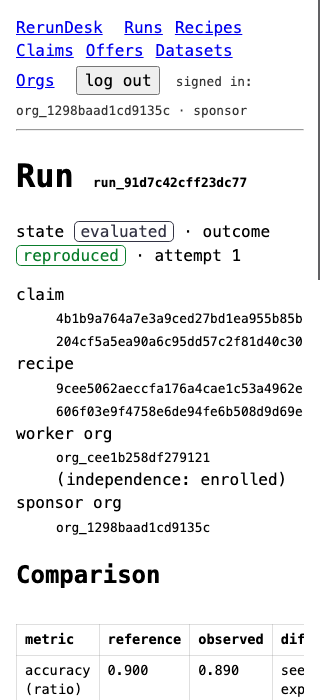
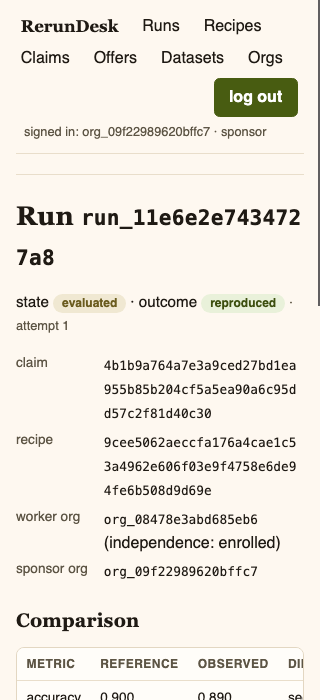
Console visual/UX pass: warm paper palette, editorial headings, badge state contrast, dark palette, 320px table wrap, styled error page

diff --git a/src/console.js b/src/console.js
@@ -31,27 +31,100 @@ function page(title, actor, inner) {
 <meta name="viewport" content="width=device-width, initial-scale=1">
 <title>${esc(title)} · RerunDesk</title>
 <style>
-:root { color-scheme: light dark; }
-body { font-family: ui-monospace, SFMono-Regular, Menlo, monospace; margin: 0 auto;
-  max-width: 64rem; padding: 1rem; line-height: 1.45; }
-nav a { margin-right: .75rem; }
-table { border-collapse: collapse; width: 100%; margin: .75rem 0; }
-.tablewrap { overflow-x: auto; }
-:focus-visible { outline: 2px solid #36c; outline-offset: 2px; }
-th, td { border: 1px solid #8884; padding: .3rem .5rem; text-align: left;
-  font-size: .85rem; vertical-align: top; }
-code { font-size: .8rem; word-break: break-all; }
-.badge { border: 1px solid currentColor; border-radius: .3rem; padding: 0 .35rem; }
-.badge-reproduced { color: #0a7d2c; } .badge-diverged { color: #b34700; }
-.badge-inconclusive { color: #8a6d00; } .badge-evaluated { color: #334; }
-.flash { border: 1px solid #b33; background: #b332; padding: .5rem; }
-fieldset { margin: .75rem 0; }
-label { display: block; margin: .35rem 0; font-size: .85rem; }
-input, select, textarea { font: inherit; max-width: 100%; }
+:root {
+  color-scheme: light dark;
+  --canvas: #FEF8F0; --ink: #1F1A14; --card: #FFFDF9; --border: #E3D7C2;
+  --accent: #485C11; --accent-ink: #FFFFFF; --error: #A23A1A;
+  --muted: #5D5545; --rule: #E9DECB; --field: #FFFFFF;
+  --b-ok-bg: #E9F1DA; --b-ok-ink: #3D4F0F;
+  --b-warn-bg: #F7E8CF; --b-warn-ink: #7A4A00;
+  --b-mid-bg: #F0E8D2; --b-mid-ink: #6B5C1F;
+  --b-neutral-bg: #EDE6D8; --b-neutral-ink: #4C4536;
+  --b-err-bg: #F4DACE; --b-err-ink: #8E3418;
+}
+@media (prefers-color-scheme: dark) {
+  :root {
+    --canvas: #1D1913; --ink: #F0E9DB; --card: #2A251D; --border: #4C4334;
+    --accent: #96AC4E; --accent-ink: #1D1913; --error: #E2967B;
+    --muted: #B3A892; --rule: #3B3428; --field: #221E17;
+    --b-ok-bg: #3C4A22; --b-ok-ink: #D5E5B4;
+    --b-warn-bg: #4E3A1D; --b-warn-ink: #EFCB92;
+    --b-mid-bg: #474022; --b-mid-ink: #E3D5A2;
+    --b-neutral-bg: #373126; --b-neutral-ink: #C9BEA6;
+    --b-err-bg: #4E2417; --b-err-ink: #EFBBA6;
+  }
+}
+* { box-sizing: border-box; }
+body { font-family: "DM Sans", ui-sans-serif, -apple-system, "Segoe UI",
+  Roboto, Helvetica, Arial, sans-serif; background: var(--canvas);
+  color: var(--ink); margin: 0 auto; max-width: 64rem;
+  padding: 0 1rem 2.5rem; line-height: 1.5; }
+h1, h2, h3 { font-family: "Crimson Text", Georgia, "Times New Roman", serif;
+  font-weight: 600; letter-spacing: .01em; margin: 1.4rem 0 .5rem; }
+h1 { font-size: 1.65rem; } h2 { font-size: 1.2rem; } h3 { font-size: 1.05rem; }
+nav { display: flex; flex-wrap: wrap; align-items: center; gap: .15rem .9rem;
+  padding: .7rem 0; border-bottom: 1px solid var(--rule); margin-bottom: .4rem; }
+nav a { color: var(--ink); text-decoration: none; border-radius: .3rem;
+  padding: .15rem .3rem; }
+nav a:hover { text-decoration: underline; }
+nav form { display: inline; margin-left: auto; }
+nav .small { margin-left: .5rem; }
+nav > a:first-child { font-family: "Crimson Text", Georgia, serif;
+  font-weight: 700; font-size: 1.05rem; }
+main, section { margin: 1rem 0; }
+dl { display: grid; grid-template-columns: max-content 1fr; gap: .3rem 1rem; }
+dt { color: var(--muted); font-size: .85rem; } dd { margin: 0; }
+.tablewrap { overflow-x: auto; background: var(--card);
+  border: 1px solid var(--border); border-radius: .5rem; margin: .75rem 0; }
+table { border-collapse: collapse; width: 100%; }
+th, td { border-bottom: 1px solid var(--rule); padding: .45rem .6rem;
+  text-align: left; font-size: .85rem; vertical-align: top;
+  font-variant-numeric: tabular-nums; }
+th { color: var(--muted); font-weight: 600; font-size: .75rem;
+  letter-spacing: .04em; text-transform: uppercase; white-space: nowrap; }
+tbody tr:last-child td { border-bottom: none; }
+code { font-family: ui-monospace, SFMono-Regular, Menlo, monospace;
+  font-size: .8em; word-break: break-all; }
+.badge { display: inline-block; border-radius: 1rem; padding: .05rem .55rem;
+  font-size: .75rem; font-weight: 600; white-space: nowrap;
+  background: var(--b-neutral-bg); color: var(--b-neutral-ink); }
+.badge-reproduced, .badge-admitted, .badge-captured, .badge-attested,
+  .badge-enrolled { background: var(--b-ok-bg); color: var(--b-ok-ink); }
+.badge-diverged, .badge-authorized, .badge-unconfirmed,
+  .badge-lease_expired { background: var(--b-warn-bg); color: var(--b-warn-ink); }
+.badge-inconclusive, .badge-evaluated, .badge-pending,
+  .badge-artifacts_received { background: var(--b-mid-bg); color: var(--b-mid-ink); }
+.badge-rejected, .badge-cancelled, .badge-failed,
+  .badge-refunded { background: var(--b-err-bg); color: var(--b-err-ink); }
+.badge-leased, .badge-running, .badge-unknown, .badge-none {
+  background: var(--b-neutral-bg); color: var(--b-neutral-ink); }
+.stateline { font-size: .95rem; }
+.flash, .err { border: 1px solid var(--error); border-left-width: 4px;
+  background: var(--b-err-bg); color: var(--b-err-ink);
+  border-radius: .4rem; padding: .6rem .8rem; }
+fieldset { margin: .75rem 0; border: 1px solid var(--border);
+  border-radius: .5rem; background: var(--card); padding: .8rem 1rem; }
+legend { color: var(--muted); font-size: .8rem; padding: 0 .3rem; }
+label { display: block; margin: .5rem 0; font-size: .85rem; color: var(--muted); }
+input, select, textarea { font: inherit; color: var(--ink);
+  background: var(--field); border: 1px solid var(--border);
+  border-radius: .35rem; padding: .35rem .5rem; max-width: 100%; }
+input:focus, select:focus, textarea:focus { border-color: var(--accent); }
 textarea { width: 100%; }
-button { font: inherit; margin: .2rem .4rem .2rem 0; }
-.small { font-size: .8rem; opacity: .8; }
-section { margin: 1rem 0; }
+button { font: inherit; margin: .2rem .4rem .2rem 0; cursor: pointer;
+  background: var(--accent); color: var(--accent-ink);
+  border: 1px solid var(--accent); border-radius: .35rem;
+  padding: .4rem .9rem; font-weight: 600; }
+button:hover { filter: brightness(1.08); }
+form.secondary button, button.secondary { background: transparent;
+  color: var(--ink); border-color: var(--border); }
+:focus-visible { outline: 2px solid var(--accent); outline-offset: 2px;
+  border-radius: .25rem; }
+.small { font-size: .8rem; color: var(--muted); }
+.num, td[data-num] { font-family: ui-monospace, SFMono-Regular, Menlo, monospace;
+  font-variant-numeric: tabular-nums; }
+a { color: var(--accent); }
+hr { border: none; border-top: 1px solid var(--rule); margin: 1.25rem 0; }
 </style></head><body>
 <nav><a href="/">RerunDesk</a>
 ${actor ? `<a href="/runs">Runs</a><a href="/recipes">Recipes</a>
@@ -343,8 +416,9 @@ ${lease ? `<p class="small">active lease epoch ${lease.epoch}, expires ${esc(lea
 <p>${esc(ev.explanation)}</p>` : "";
 
     return ok(page(`Run ${run.id}`, actor, `<h1>Run <code>${esc(run.id)}</code></h1>
-<p>state ${badge(run.state)} ${run.outcome ? `· outcome ${badge(run.outcome)}` : ""}
-· attempt ${run.attempt}</p>
+<p class="stateline">state ${badge(run.state)}
+${run.outcome ? `· outcome ${badge(run.outcome)}` : ""}
+<span class="small">· attempt ${run.attempt}</span></p>
 <dl>
 <dt>claim</dt><dd><code>${esc(run.claim_id)}</code></dd>
 <dt>recipe</dt><dd><code>${esc(run.recipe_id)}</code></dd>

diff --git a/src/http.js b/src/http.js
@@ -69,8 +69,17 @@ export function createServer(db) {
           res.end(`<!doctype html><html lang="en"><head><meta charset="utf-8">
 <meta name="viewport" content="width=device-width, initial-scale=1">
 <title>${err.status} ${esc(err.code)} · RerunDesk</title>
-<style>body{font-family:ui-monospace,Menlo,monospace;max-width:40rem;margin:2rem auto;padding:0 1rem;line-height:1.45}
-.err{border:1px solid #b33;background:#b332;padding:1rem}</style></head>
+<style>:root{color-scheme:light dark;--canvas:#FEF8F0;--ink:#1F1A14;
+--card:#FFFDF9;--border:#E3D7C2;--error:#A23A1A;--err-bg:#F4DACE}
+@media(prefers-color-scheme:dark){:root{--canvas:#1D1913;--ink:#F0E9DB;
+--card:#2A251D;--border:#4C4334;--error:#E2967B;--err-bg:#4E2417}}
+body{font-family:ui-sans-serif,-apple-system,"Segoe UI",Roboto,sans-serif;
+background:var(--canvas);color:var(--ink);max-width:40rem;margin:2rem auto;
+padding:0 1rem;line-height:1.5}
+h1{font-family:"Crimson Text",Georgia,serif;font-weight:600;overflow-wrap:anywhere}
+.err{border:1px solid var(--error);border-left-width:4px;background:var(--err-bg);
+color:var(--error);border-radius:.4rem;padding:.6rem .8rem}
+a{color:#485C11}:focus-visible{outline:2px solid #485C11;outline-offset:2px}</style></head>
 <body><h1>${err.status} ${esc(err.code)}</h1>
 <p class="err" role="alert">${esc(err.message)}</p>
 <p><a href="/">back to console</a></p></body></html>`);

diff --git a/build-progress/rerundesk/HANDOFF.md b/build-progress/rerundesk/HANDOFF.md
@@ -52,6 +52,11 @@
   RERUNDESK_DEV_AUTH=1), HTML error pages, console settlement section,
   focus-visible/table-wrap a11y, and a zero-dep CDP browser check
   (scripts/browser-check.mjs -> 11/11, evidence under browser-evidence/).
+- Visual/UX pass applied to the console (in-place CSS vars): warm paper
+  canvas/ink/cards/borders, olive actions, editorial serif headings, real
+  dark palette via prefers-color-scheme, badge contrast per state,
+  focus-visible outlines, table-wrap scrolling at 320px, restyled error page.
+  Browser evidence regenerated: 11/11.
 - First next action: clean-checkout verify `npm test` (expect 21 pass +
   host-gated counts) and `node scripts/browser-check.mjs` on the host.
 - Next agent must reproduce: `npm test && node scripts/demo.mjs`
